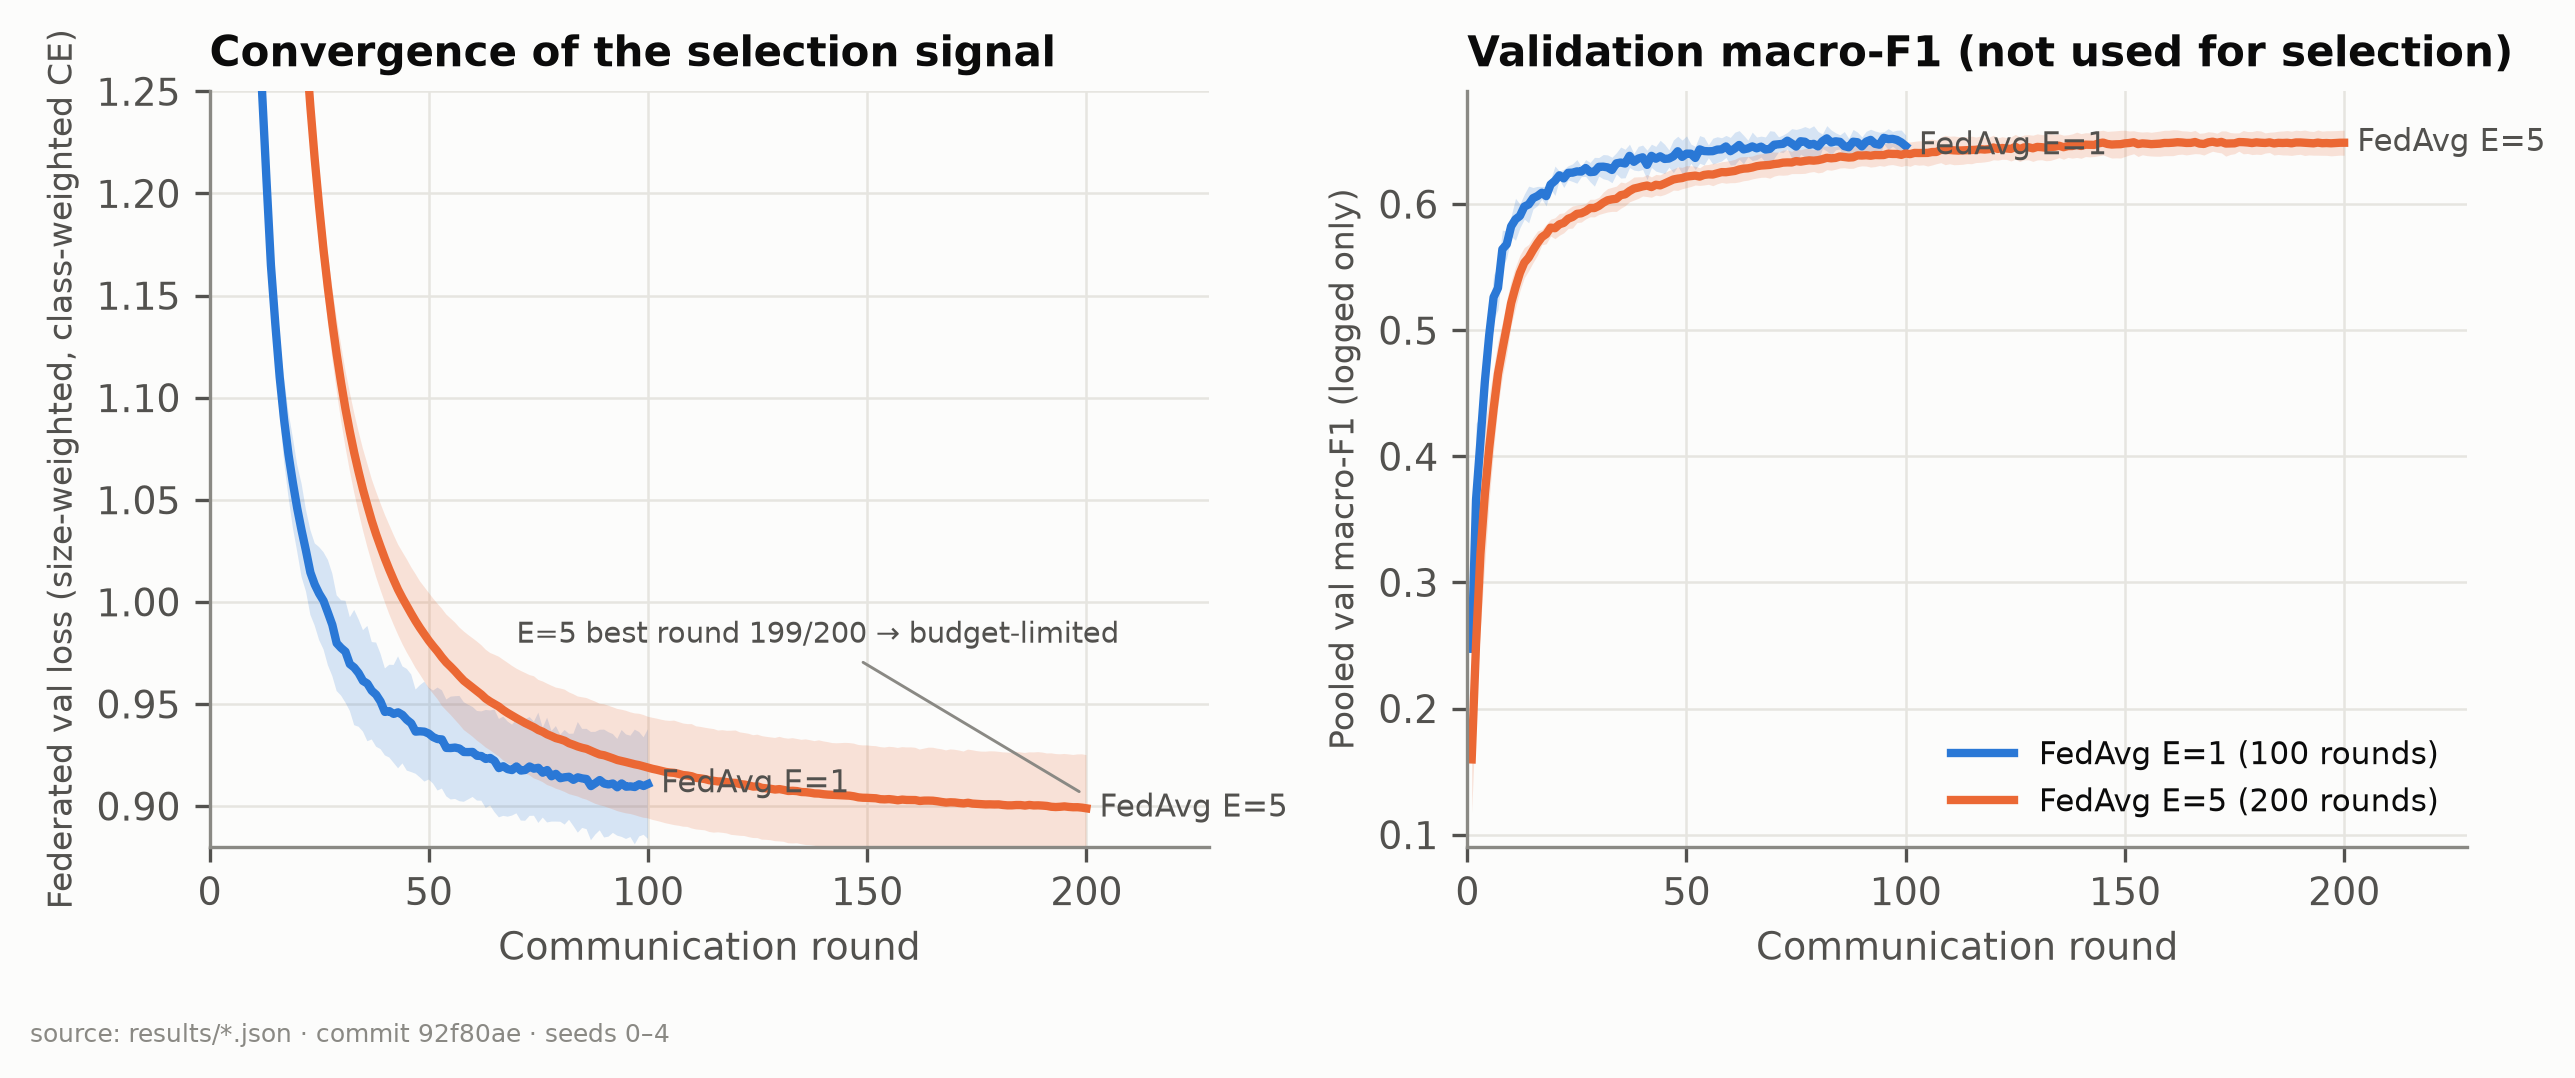
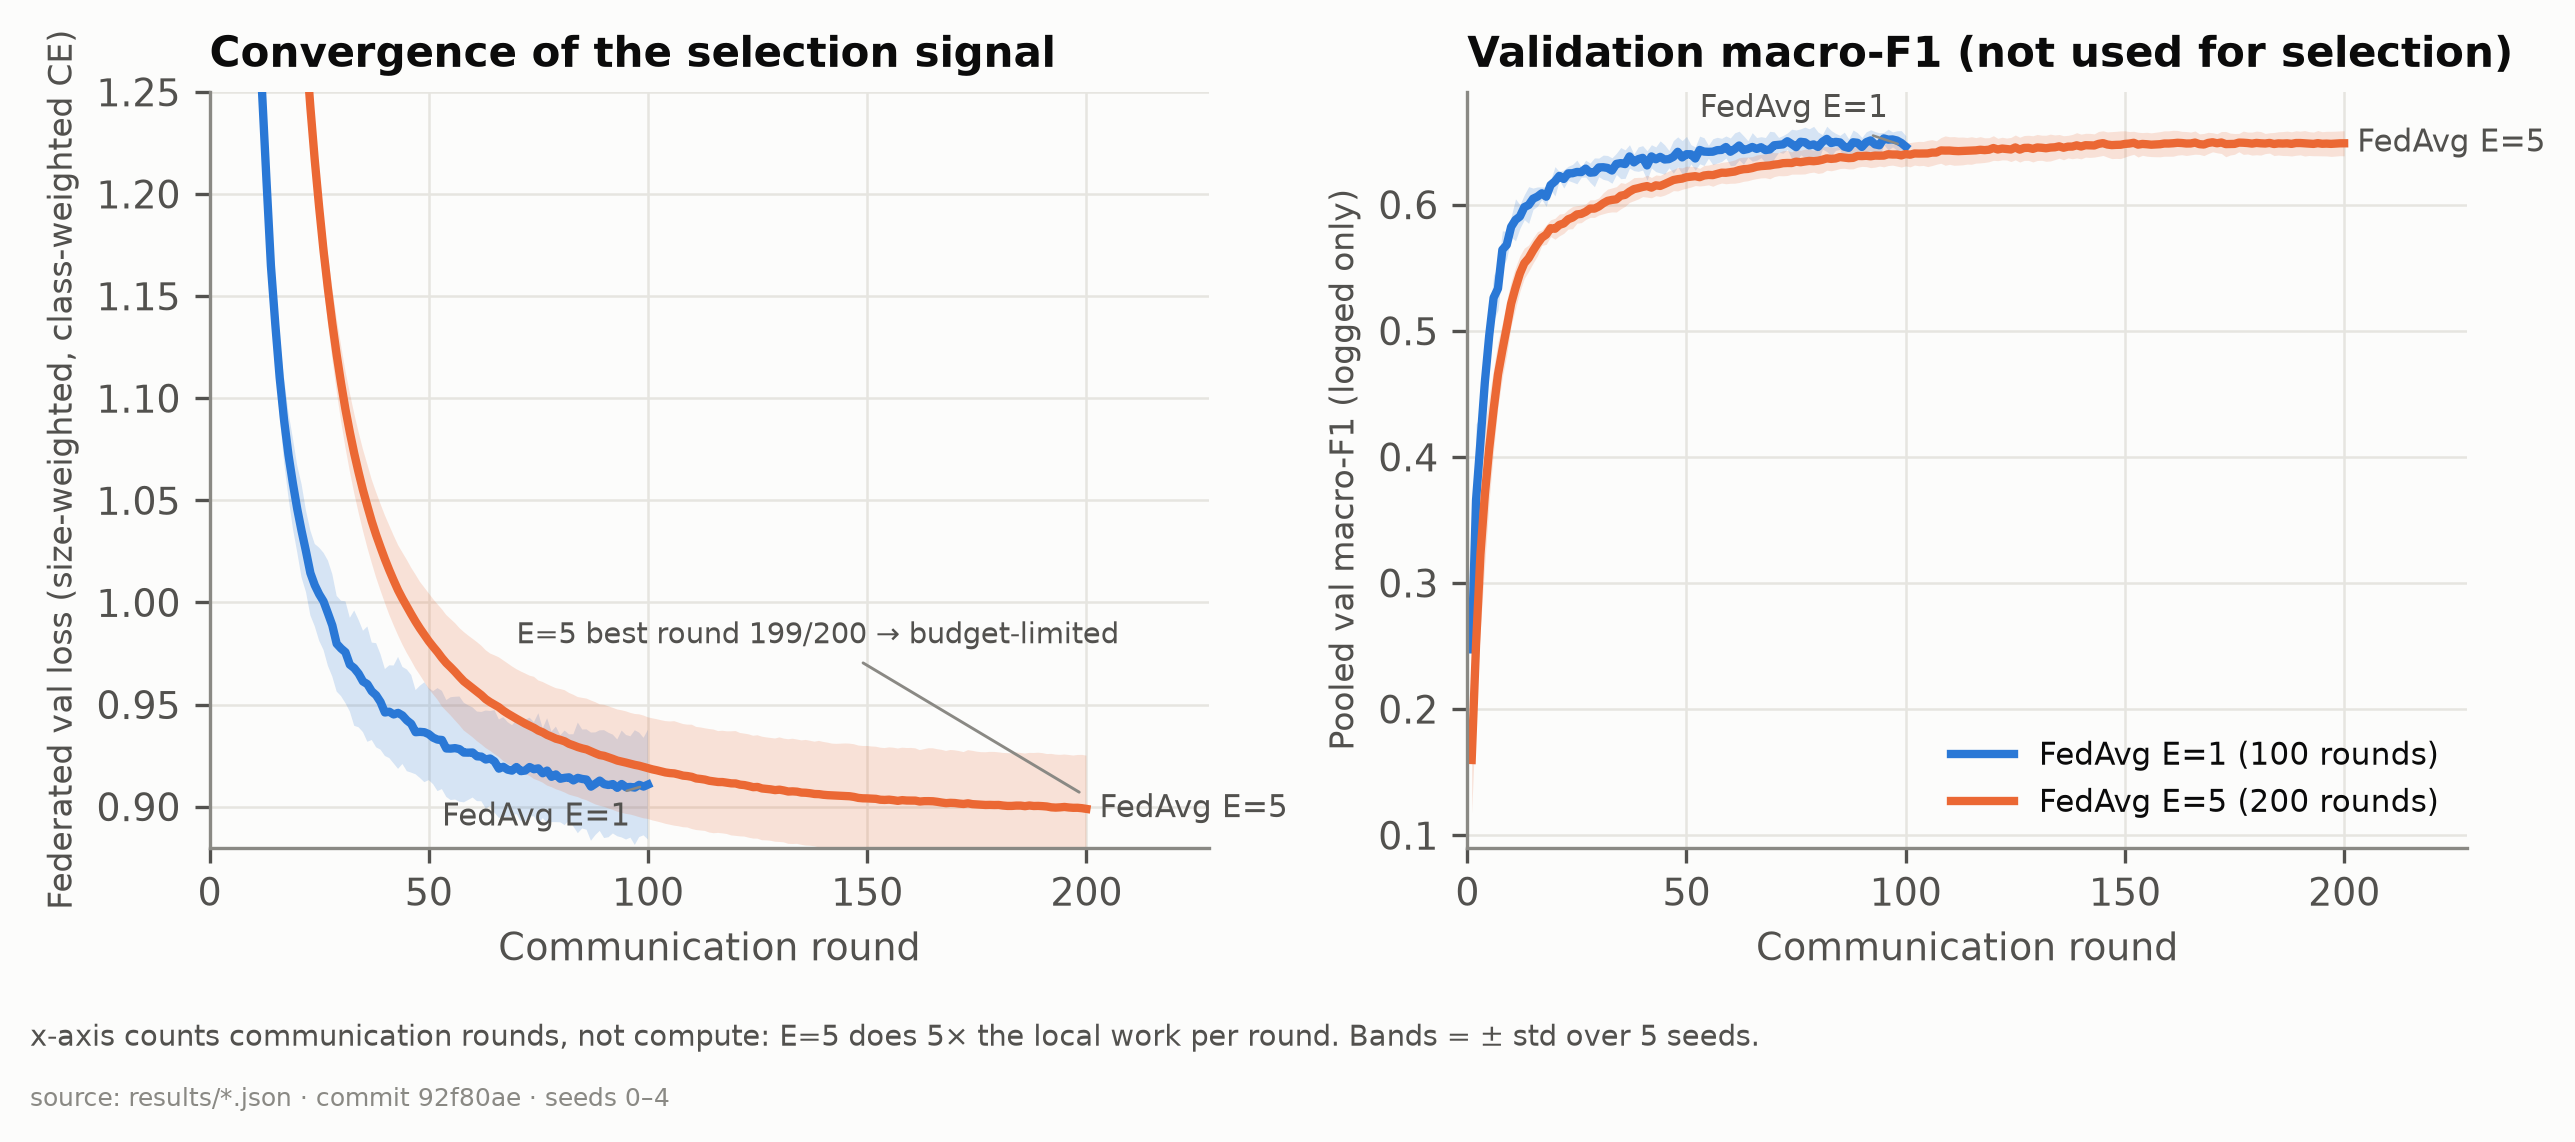
Figure corrections; NLPFeed renders null NLP confidence as a dash
- fig_e retitled "FedAvg vs baselines under two training recipes"
- fig_a2 (new): point-range plot, same methods/colours, axis 0.58-0.68,
  captioned "axis does not start at zero"; fig_a kept for the report
- fig_c: faint per-client +/- std bars on both axes; caption states the
  measured per-client std range (0.02-0.07)
- fig_b: E=1 end label moved off the curves; caption notes the x-axis is
  rounds, not compute (E=5 does 5x local work per round)
- frontend/src/pages/NLPFeed.jsx: null nlpConfidence shows "—" instead of
  "0%" (the backend no longer fabricates it)

diff --git a/frontend/src/pages/NLPFeed.jsx b/frontend/src/pages/NLPFeed.jsx
@@ -146,7 +146,7 @@ export default function NLPFeed() {
                   <div className="flex justify-between">SOURCE<span className="text-white">{selectedReport.source}</span></div>
                   <div className="flex justify-between">TYPE<span className="text-white">{(selectedReport.type || '').replace('_', ' ')}</span></div>
                   <div className="flex justify-between">LOCATION<span className="text-white">{selectedReport.location}</span></div>
-                  <div className="flex justify-between">NLP CONF.<span className="text-primary">{((selectedReport.nlpConfidence || 0) * 100).toFixed(0)}%</span></div>
+                  <div className="flex justify-between">NLP CONF.<span className="text-primary">{selectedReport.nlpConfidence != null ? `${(selectedReport.nlpConfidence * 100).toFixed(0)}%` : '—'}</span></div>
                   <div className="flex justify-between">CREDIBILITY<span className={selectedReport.credibility > 0.75 ? 'text-success' : 'text-secondary'}>{((selectedReport.credibility || 0) * 100).toFixed(0)}%</span></div>
                   <div className="flex justify-between">VERIFIED<span className={selectedReport.verified ? 'text-success' : 'text-gray-500'}>{selectedReport.verified ? 'YES' : 'PENDING'}</span></div>
                   <div className="flex justify-between">ENV MATCH<span className={selectedReport.envMatch ? 'text-success' : 'text-gray-500'}>{selectedReport.envMatch ? 'CONFIRMED' : 'NO MATCH'}</span></div>

diff --git a/experiments/make_figures.py b/experiments/make_figures.py
@@ -2,10 +2,11 @@
 Review 1 figures, generated ONLY from results/**/*.json (CLAUDE.md rule 1). 300 DPI PNGs -> paper/figures/.
 
   fig_a_baselines_bar.png        pooled test macro-F1, every main-table method, both baseline recipes
+  fig_a2_point_range.png         the same as mean ± std points on a zoomed (non-zero) axis
   fig_b_convergence.png          federated val loss and pooled val macro-F1 vs round (FedAvg E=1, E=5), mean ± std
   fig_c_per_client_scatter.png   per-client D4 macro-F1: local-only (x) vs FedAvg E=1 and FedAvg+FT<=2 (y)
   fig_d_label_distribution.png   per-client label distribution (non-IID evidence)
-  fig_e_matched_baselines.png    table: AdamW baselines vs matched-SGD baselines, same FedAvg runs
+  fig_e_matched_baselines.png    table: FedAvg vs baselines under two training recipes (AdamW, matched SGD)
 
 Colours follow the validated reference palette (blue / orange / aqua for series, greys for references; the
 aqua series is always direct-labelled because it sits below 3:1 contrast). Static images: no hover layer.
@@ -145,6 +146,34 @@ def fig_a() -> Path:
                 "FL checkpoints and all lr choices selected on validation loss only.")
 
 
+def fig_a2() -> Path:
+    """Point-range companion to (a): same methods and colours, zoomed axis so the differences are visible."""
+    rows = [(label, g, n, fam) for label, g, n, fam in MAIN_METHODS if fam != "majority"]
+    y = np.arange(len(rows))[::-1]
+    fig, ax = plt.subplots(figsize=(9.4, 4.2))
+    for yi, (label, g, n, fam) in zip(y, rows):
+        m, s = ms(pooled(g, n))
+        color = FAMILY[fam][0]
+        hollow = fam == "ref_adamw"                       # secondary encoding for the hatched family in (a)
+        ax.errorbar(m, yi, xerr=s, fmt="none", ecolor=INK_3 if hollow else color, elinewidth=2, capsize=0)
+        ax.plot(m, yi, "o", markersize=8, markerfacecolor=SURFACE if hollow else color,
+                markeredgecolor=INK_3 if hollow else SURFACE, markeredgewidth=1.6 if hollow else 1.2, zorder=3)
+        ax.text(m + s + 0.0015, yi, f"{m:.3f}", va="center", ha="left", fontsize=8, color=INK)
+    ax.set_yticks(y, [r[0] for r in rows])
+    ax.set_xlim(0.58, 0.68)
+    ax.grid(axis="y", visible=False)
+    ax.set_xlabel("Pooled test macro-F1 (9 classes), mean ± std over 5 seeds")
+    ax.set_title("Silo 1 — the same results on a zoomed axis")
+    handles = [plt.Line2D([], [], marker="o", linestyle="none", markersize=7,
+                          markerfacecolor=SURFACE if f == "ref_adamw" else FAMILY[f][0],
+                          markeredgecolor=INK_3 if f == "ref_adamw" else FAMILY[f][0]) for f in FAMILY if f != "majority"]
+    ax.legend(handles, [FAMILY[f][2] for f in FAMILY if f != "majority"], loc="upper left",
+              bbox_to_anchor=(1.01, 1.0), fontsize=7.5)
+    return save(fig, "fig_a2_point_range.png", provenance_of(*[(g, n) for _, g, n, _ in rows]),
+                "Axis does not start at zero (0.58–0.68) — use fig (a) for magnitudes. Majority class (0.049) is "
+                "off-axis.  † budget-limited at 200 rounds.")
+
+
 # ── (b) convergence ────────────────────────────────────────────────────────
 
 def fig_b() -> Path:
@@ -159,7 +188,14 @@ def fig_b() -> Path:
             mean, sd = arr.mean(0), arr.std(0, ddof=1)
             ax.fill_between(r, mean - sd, mean + sd, color=color, alpha=0.18, linewidth=0)
             ax.plot(r, mean, color=color, linewidth=2, label=label)
-            ax.text(r[-1] + 3, mean[-1], label.split(" (")[0], color=INK_2, fontsize=7.5, va="center")
+            # E=1 ends where the E=5 curve passes: put its end label clear of both curves
+            if name == "fedavg_E1":
+                dy = 0.03 if key == "pooled_val_macro_f1" else -0.016
+                ax.annotate(label.split(" (")[0], xy=(r[-1], mean[-1]), xytext=(r[-1] - 4, mean[-1] + dy),
+                            ha="right", va="center", fontsize=7.5, color=INK_2,
+                            arrowprops={"arrowstyle": "-", "color": INK_3, "lw": 0.6})
+            else:
+                ax.text(r[-1] + 3, mean[-1], label.split(" (")[0], color=INK_2, fontsize=7.5, va="center")
         ax.set_xlabel("Communication round")
         ax.set_ylabel(ylab, fontsize=8)
         ax.set_xlim(0, 228)
@@ -172,7 +208,9 @@ def fig_b() -> Path:
                      arrowprops={"arrowstyle": "-", "color": INK_3, "lw": 0.7})
     axes[1].legend(loc="lower right", fontsize=7.5)
     fig.tight_layout()
-    return save(fig, "fig_b_convergence.png", provenance_of(*[("silo1_fl", n) for _, n, _ in series]))
+    return save(fig, "fig_b_convergence.png", provenance_of(*[("silo1_fl", n) for _, n, _ in series]),
+                "x-axis counts communication rounds, not compute: E=5 does 5× the local work per round. "
+                "Bands = ± std over 5 seeds.")
 
 
 # ── (c) per-client scatter ─────────────────────────────────────────────────
@@ -195,7 +233,10 @@ def fig_c() -> Path:
     for label, y, color, marker in ys:
         xs = [x[c][0] for c in x]
         yv = [y[c][0] for c in x]
+        ax.errorbar(xs, yv, xerr=[x[c][1] for c in x], yerr=[y[c][1] for c in x], fmt="none", ecolor=color,
+                    elinewidth=0.8, alpha=0.3, capsize=0, zorder=2)
         ax.scatter(xs, yv, s=46, color=color, marker=marker, edgecolor=SURFACE, linewidth=1.6, label=label, zorder=3)
+    stds = [d[c][1] for d in (x, *[y for _, y, _, _ in ys]) for c in x]
     fedavg = ys[0][1]
     for c, (dx, dy) in zip(HIGHLIGHT, ((0.03, -0.055), (0.035, -0.06))):   # point at the FedAvg E=1 marker
         ax.annotate(CLIENT_SHORT[c], xy=(x[c][0], fedavg[c][0]), xytext=(x[c][0] + dx, fedavg[c][0] + dy),
@@ -208,8 +249,9 @@ def fig_c() -> Path:
     ax.legend(loc="lower right", fontsize=7.5)
     return save(fig, "fig_c_per_client_scatter.png",
                 provenance_of(("silo1_baselines", "local_only"), ("silo1_fl", "fedavg_E1"), ("silo1_fl", "ft2_fedavg_E1")),
-                "Each point = one event client, mean over 5 seeds. Above the diagonal = federation helps.\n"
-                "D4: macro-F1 over the classes with ≥3 test examples in that client.")
+                "Each point = one event client, mean over 5 seeds; faint bars = ± std across seeds "
+                f"(per-client std {min(stds):.2f}–{max(stds):.2f}).\n"
+                "Above the diagonal = federation helps. D4: macro-F1 over classes with ≥3 test examples in that client.")
 
 
 # ── (d) label distribution heatmap ─────────────────────────────────────────
@@ -280,7 +322,7 @@ def fig_e() -> Path:
             cell.set_height(cell.get_height() * 1.45)
         if c == -1:
             cell.set_text_props(color=INK_2)
-    fig.text(0.01, 0.99, "Before vs after matched baselines — pooled test macro-F1, seeds 0–4 (paired t-tests)",
+    fig.text(0.01, 0.99, "FedAvg vs baselines under two training recipes — pooled test macro-F1, seeds 0–4",
              ha="left", va="top", fontsize=10, weight="bold", color=INK)
     return save(fig, "fig_e_matched_baselines.png",
                 provenance_of(("silo1_fl", "fedavg_E1"), *[("silo1_baselines", n) for v in cols.values() for n in v]),
@@ -290,7 +332,7 @@ def fig_e() -> Path:
 
 
 def main() -> None:
-    for fn in (fig_a, fig_b, fig_c, fig_d, fig_e):
+    for fn in (fig_a, fig_a2, fig_b, fig_c, fig_d, fig_e):
         print("wrote", fn().relative_to(REPO))
 
 
